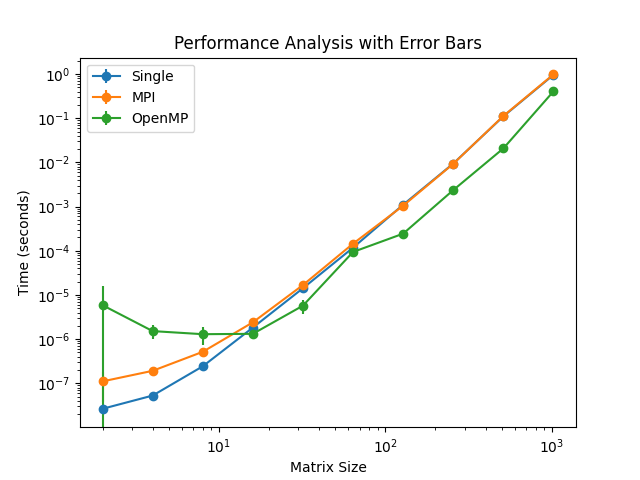
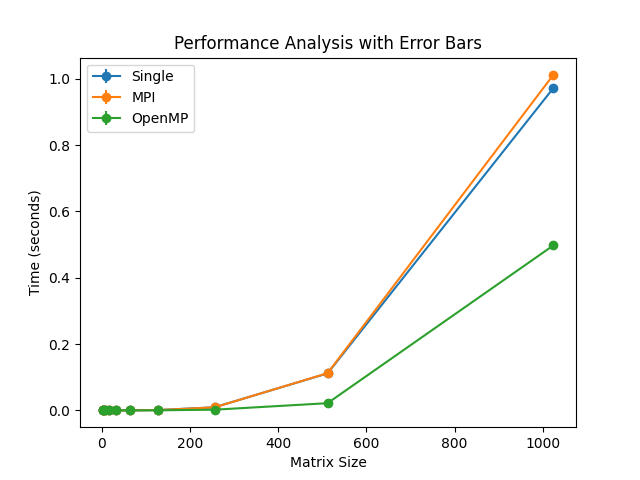
yappi!

diff --git a/single.cpp b/single.cpp
@@ -42,7 +42,7 @@ void multiplyMatrices(const std::vector<std::vector<int>>& matrixA,
 
 int main() {
     std::vector<int> sizes = {2, 4, 8, 16, 32, 64, 128, 256, 512, 1024};
-    int count = 100;
+    int count = 500;
     std::string data_dir = "data";
     std::ofstream timingFile(data_dir + "/timingResults_single.txt");
 

diff --git a/omp.cpp b/omp.cpp
@@ -44,7 +44,7 @@ void multiplyMatrices(const std::vector<std::vector<int>>& matrixA,
 
 int main() {
     std::vector<int> sizes = {2, 4, 8, 16, 32, 64, 128, 256, 512, 1024};
-    int count = 100;
+    int count = 500;
     std::string data_dir = "data";
     std::ofstream timingFile(data_dir + "/timingResults_omp.txt");
 

diff --git a/main.py b/main.py
@@ -158,8 +158,6 @@ def main():
     ax.set_xlabel('Matrix Size')
     ax.set_ylabel('Time (seconds)')
     ax.set_title('Performance Analysis with Error Bars')
-    plt.xscale('log')
-    plt.yscale('log')
     plt.legend()
     plt.savefig('single_mpi_omp_comparison.png')
     plt.close()

diff --git a/mpi.cpp b/mpi.cpp
@@ -53,7 +53,7 @@ int main(int argc, char* argv[]) {
     MPI_Comm_size(MPI_COMM_WORLD, &numProcs);
 
     std::vector<int> sizes = {2, 4, 8, 16, 32, 64, 128, 256, 512, 1024};
-    int count = 100;
+    int count = 500;
     std::string data_dir = "data";
     std::ofstream timingFile;
 
